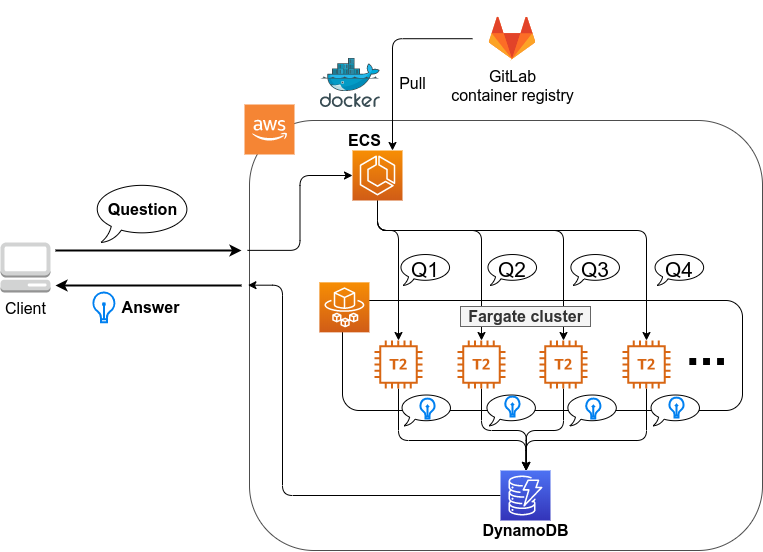
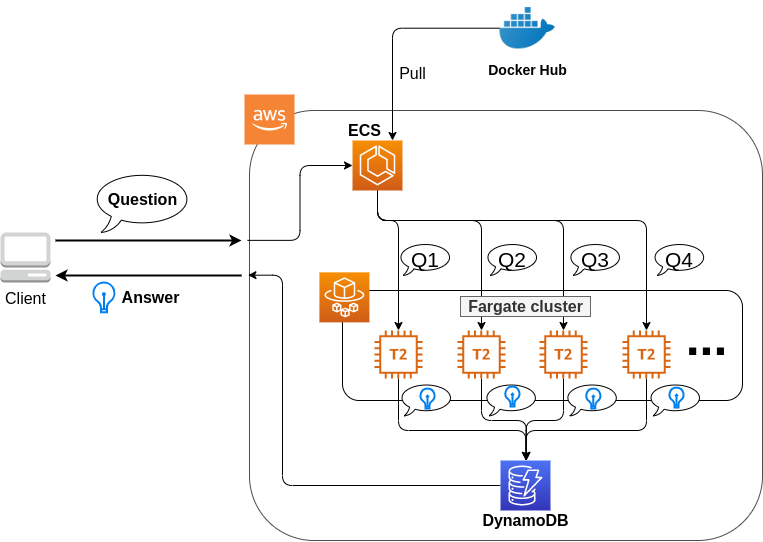
update

diff --git a/handson/qa-bot/run_task.py b/handson/qa-bot/run_task.py
@@ -13,7 +13,7 @@ class Params:
         self.ECS_TASK_VPC_SUBNET_1 = ssm_client.get_parameter(Name="ECS_TASK_VPC_SUBNET_1")["Parameter"]["Value"]
         self.TABLE_NAME = ssm_client.get_parameter(Name="TABLE_NAME")["Parameter"]["Value"]
 
-def ask(context, question, timeout=120):
+def ask(context, question, timeout=240):
     """
     Given 'context' and 'question', this function asks a single question.
     """
@@ -74,7 +74,7 @@ def ask(context, question, timeout=120):
     print(Back.BLUE + "Question:", resp["question"])
     print(Back.MAGENTA + "Answer:", resp["answer"])
     print(Back.YELLOW + "Score:", resp["score"])
-        
+
 def ask_many():
     """
     Ask many questions at once. The questions are defined in "problems.json".

diff --git a/handson/qa-bot/app.py b/handson/qa-bot/app.py
@@ -65,7 +65,7 @@ class EcsClusterQaBot(core.Stack):
         container = taskdef.add_container(
             "EcsClusterQaBot-Container",
             image=ecs.ContainerImage.from_registry(
-                "registry.gitlab.com/tomomano/intro-aws/handson03:latest"
+                "tomomano/qabot:latest"
             ),
             logging=ecs.LogDrivers.aws_logs(
                 stream_prefix="EcsClusterQaBot",
